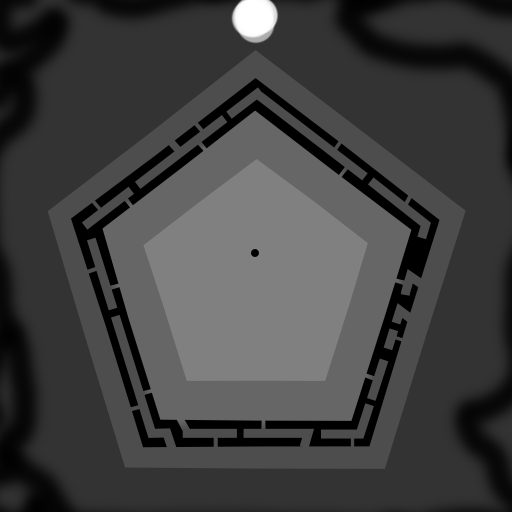
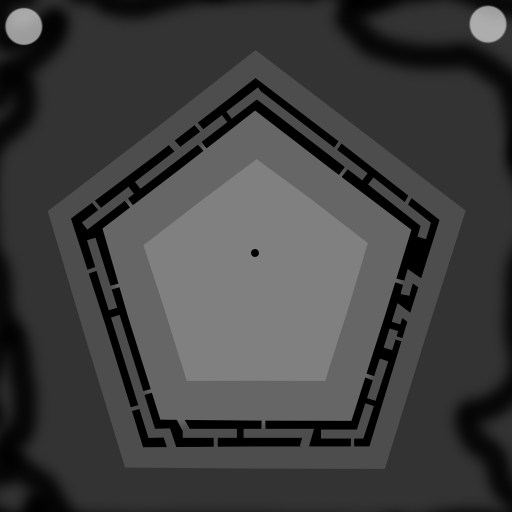
doors go away

Changed region(s): [[0.4375, 0.0, 0.5625, 0.0938], [0.9062, 0.0, 1.0, 0.0938], [0.0, 0.0, 0.0938, 0.0938]]

diff --git a/src/overthinker/client/GamePlayAppState.java b/src/overthinker/client/GamePlayAppState.java
@@ -521,13 +521,10 @@ public class GamePlayAppState extends AbstractAppState
       int id = closest.getGeometry().getUserData("id");
       for (int i = 0; i < keys.size(); i++)
       {
-        if (id == i)
-        {
           Key k = keys.get(i);
           k.removeFromParent();
           Door d = keyDoors.get(i);
           d.removeFromParent();
-        }
       }
     }
 
